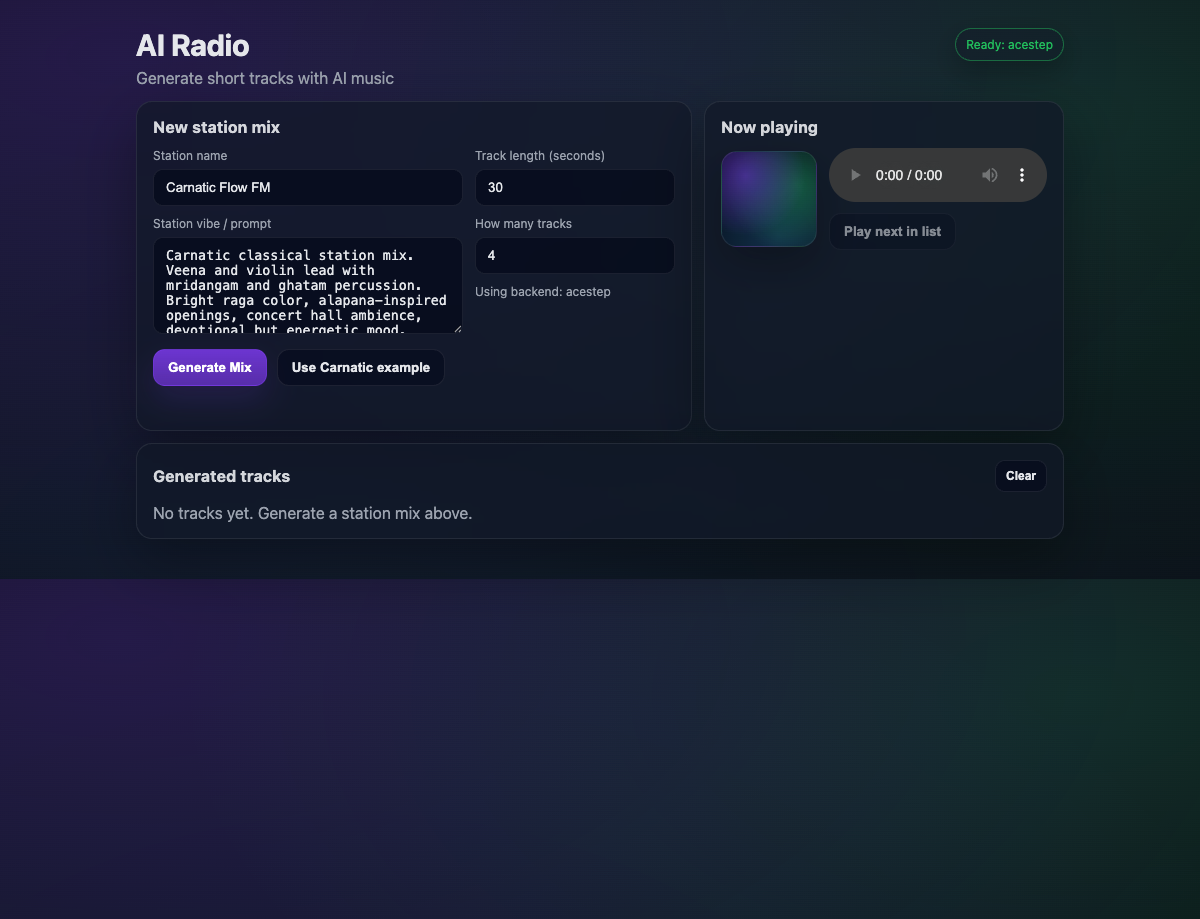
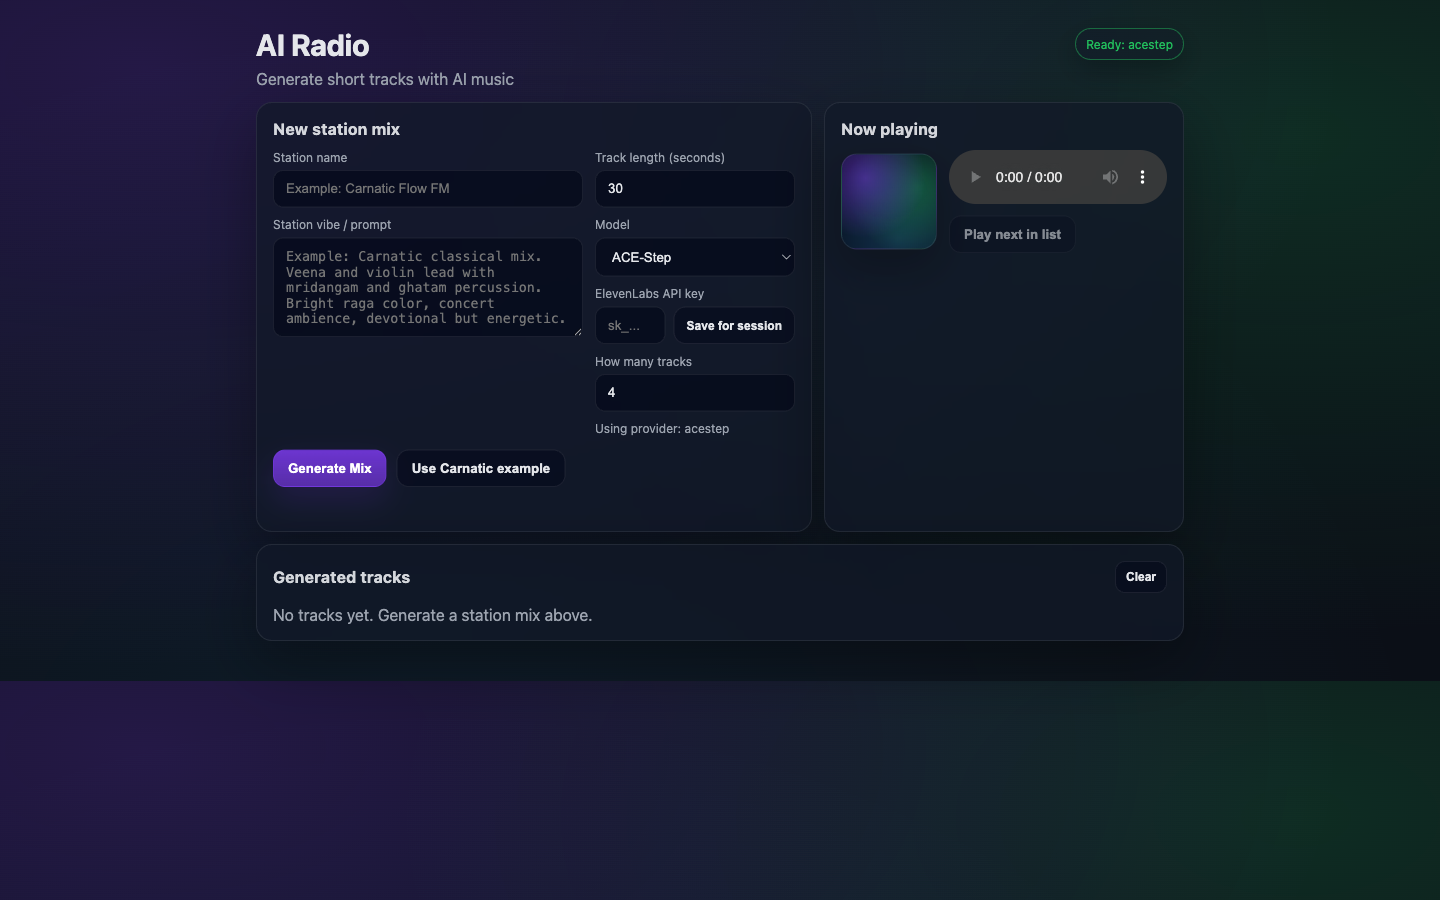
chore: default to elevenlabs and refresh app setup (#5)

diff --git a/public/index.html b/public/index.html
@@ -3,7 +3,7 @@
   <head>
     <meta charset="UTF-8" />
     <meta name="viewport" content="width=device-width,initial-scale=1" />
-    <title>AI Radio (local)</title>
+    <title>AI Radio</title>
     <link rel="stylesheet" href="/styles.css" />
   </head>
   <body>
@@ -42,8 +42,8 @@
               <label>
                 <span>Model</span>
                 <select id="providerSelect">
-                  <option value="acestep">ACE-Step (local)</option>
                   <option value="elevenlabs">ElevenLabs</option>
+                  <option value="acestep">ACE-Step</option>
                 </select>
               </label>
               <label>

diff --git a/src/config.ts b/src/config.ts
@@ -5,7 +5,7 @@ const envSchema = z.object({
   GENERATED_DIR: z.string().min(1).default("generated"),
 
   // Which backend to use for /api/music/compose
-  MUSIC_PROVIDER: z.enum(["heartmula", "acestep", "elevenlabs"]).optional().default("acestep"),
+  MUSIC_PROVIDER: z.enum(["heartmula", "acestep", "elevenlabs"]).optional().default("elevenlabs"),
 
   // ElevenLabs (optional)
   ELEVENLABS_API_KEY: z.string().optional().default(""),

diff --git a/public/app.js b/public/app.js
@@ -29,7 +29,7 @@ let lastHealth = {
   providers: {}
 };
 
-const TOGGLE_PROVIDERS = ["acestep", "elevenlabs"];
+const TOGGLE_PROVIDERS = ["elevenlabs", "acestep"];
 
 function setStatus(message, kind = "info") {
   statusEl.textContent = message ?? "";

diff --git a/AGENTS.md b/AGENTS.md
@@ -1,0 +1,40 @@
+# Agent Instructions
+
+This project uses **bd** (beads) for issue tracking. Run `bd onboard` to get started.
+
+## Quick Reference
+
+```bash
+bd ready              # Find available work
+bd show <id>          # View issue details
+bd update <id> --status in_progress  # Claim work
+bd close <id>         # Complete work
+bd sync               # Sync with git
+```
+
+## Landing the Plane (Session Completion)
+
+**When ending a work session**, you MUST complete ALL steps below. Work is NOT complete until `git push` succeeds.
+
+**MANDATORY WORKFLOW:**
+
+1. **File issues for remaining work** - Create issues for anything that needs follow-up
+2. **Run quality gates** (if code changed) - Tests, linters, builds
+3. **Update issue status** - Close finished work, update in-progress items
+4. **PUSH TO REMOTE** - This is MANDATORY:
+   ```bash
+   git pull --rebase
+   bd sync
+   git push
+   git status  # MUST show "up to date with origin"
+   ```
+5. **Clean up** - Clear stashes, prune remote branches
+6. **Verify** - All changes committed AND pushed
+7. **Hand off** - Provide context for next session
+
+**CRITICAL RULES:**
+- Work is NOT complete until `git push` succeeds
+- NEVER stop before pushing - that leaves work stranded locally
+- NEVER say "ready to push when you are" - YOU must push
+- If push fails, resolve and retry until it succeeds
+

diff --git a/README.md b/README.md
@@ -1,4 +1,4 @@
-# AI Radio (local)
+# AI Radio
 
 AI Radio helps you make a short station mix from one prompt.
 
@@ -22,8 +22,8 @@ Open the URL shown in the terminal (usually `http://localhost:3001`).
    - track length
    - number of tracks
 4. Pick a model:
-   - ACE-Step (local)
-   - ElevenLabs
+   - ElevenLabs (default)
+   - ACE-Step
 5. Click **Generate Mix**.
 6. Play tracks in the queue and download what you like.
 
